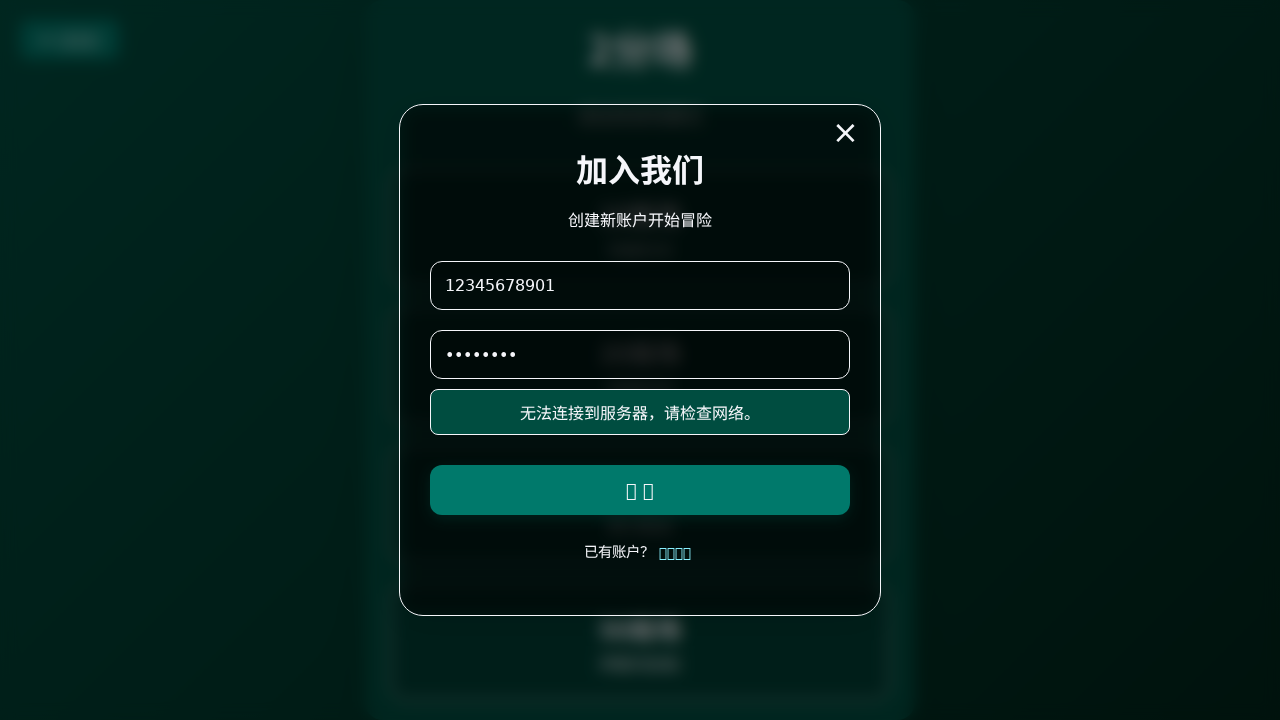
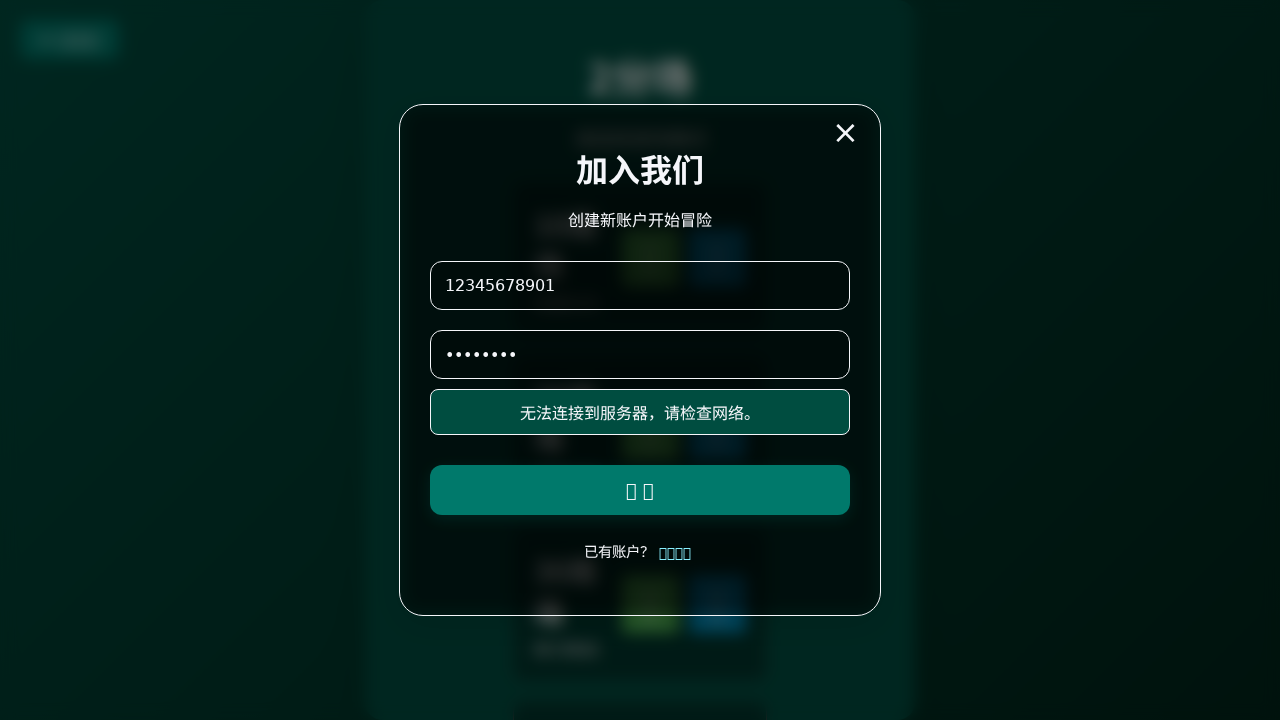
feat: Implement new game flow with join/create options
This commit implements a new game flow with separate "Join" and "Create" options for game modes.

- **UI**:
  - Updated the game mode selection screen to display "Join" and "Create" buttons for each mode.
- **Frontend Logic**:
  - Updated the `handleSelectMode` function to pass the selected action ('join' or 'create') to the backend.
- **Backend Logic**:
  - Updated the `match.php` script to handle the 'join' and 'create' actions.
  - The 'join' action looks for an existing waiting room.
  - The 'create' action always creates a new room.

diff --git a/frontend/src/App.jsx b/frontend/src/App.jsx
@@ -75,7 +75,7 @@ function App() {
     setCurrentView('modeSelection');
   };
 
-  const handleSelectMode = async (gameMode, gameType = viewingGame) => {
+  const handleSelectMode = async (gameMode, matchAction, gameType = viewingGame) => {
     if (!user) {
       setShowAuthModal(true);
       return;
@@ -83,25 +83,17 @@ function App() {
 
     if (!gameType || matchingStatus[gameType]) return;
 
-    let playerCount = 4; // Default player count
-    let finalGameMode = gameMode;
+    const gameModeParts = gameMode.split('-');
+    const playerCount = parseInt(gameModeParts[0], 10);
 
-    // If the gameMode string contains player count info (e.g., "4-normal"), parse it.
-    if (gameMode.includes('-')) {
-      const parts = gameMode.split('-');
-      playerCount = parseInt(parts[0], 10);
-      finalGameMode = parts[1];
-    }
-
-    const currentUser = user; // Capture user state at time of call
+    const currentUser = user;
     const userId = currentUser.id;
 
     setMatchingStatus(prev => ({ ...prev, [gameType]: true }));
-    // Reset game state but keep mode info
     setGameState({ gameType, gameMode, roomId: null, error: null, gameUser: currentUser, playerCount });
 
     try {
-      const response = await fetch(`/api/index.php?action=match&gameType=${gameType}&gameMode=${finalGameMode}&userId=${userId}&playerCount=${playerCount}`);
+      const response = await fetch(`/api/index.php?action=match&gameType=${gameType}&gameMode=${gameMode}&userId=${userId}&playerCount=${playerCount}&matchAction=${matchAction}`);
       const data = await response.json();
       if (data.success && data.roomId) {
         const newGameState = {
@@ -133,7 +125,7 @@ function App() {
   // This effect is for polling for a match for logged-in users.
   useEffect(() => {
     const currentGame = gameState.gameType;
-    if (!currentGame || !matchingStatus[currentGame] || !user || (user && user.id === 0)) return; // Only for logged in users
+    if (!currentGame || !matchingStatus[currentGame] || !user || (user && user.id === 0)) return;
     const intervalId = setInterval(async () => {
       if (gameState.roomId) {
         setMatchingStatus(prev => ({ ...prev, [currentGame]: false }));
@@ -144,8 +136,8 @@ function App() {
         clearInterval(intervalId);
         return;
       }
-      // Pass both gameMode and gameType for polling
-      await handleSelectMode(gameState.gameMode, gameState.gameType);
+      // Default to 'join' action when polling
+      await handleSelectMode(gameState.gameMode, 'join', gameState.gameType);
     }, 1000);
     return () => clearInterval(intervalId);
   }, [matchingStatus, user, gameState.roomId, gameState.gameType, gameState.gameMode]);

diff --git a/frontend/src/components/GameModeSelection.css b/frontend/src/components/GameModeSelection.css
@@ -1,15 +1,7 @@
 .mode-selection-container {
-  width: 100%;
-  min-height: 100%;
-  display: flex;
-  flex-direction: column;
-  align-items: center;
-  justify-content: center;
-  padding: 40px 20px;
-  box-sizing: border-box;
-  color: var(--text-color);
-  background: transparent;
+  padding: 20px;
   text-align: center;
+  color: #fff;
 }
 
 .back-button {
@@ -17,64 +9,76 @@
   top: 20px;
   left: 20px;
   background: none;
-  border: none;
-  color: var(--text-color);
-  font-size: 1rem;
-  font-weight: 600;
+  border: 1px solid #fff;
+  color: #fff;
+  padding: 10px 15px;
   cursor: pointer;
-  padding: 10px;
-}
-
-.back-button:hover {
-  text-decoration: underline;
+  border-radius: 5px;
 }
 
 .mode-selection-title {
   font-size: 2.5rem;
-  font-weight: 700;
-  color: var(--text-color);
-  margin: 0 0 10px 0;
+  margin-bottom: 10px;
 }
 
 .mode-selection-subtitle {
-  font-size: 1.1rem;
-  font-weight: 400;
-  color: var(--text-color);
-  margin-bottom: 40px;
+  font-size: 1.2rem;
+  margin-bottom: 30px;
 }
 
 .mode-options {
-  width: 100%;
-  max-width: 500px;
   display: flex;
   flex-direction: column;
   gap: 20px;
+  align-items: center;
 }
 
 .mode-card {
-  background: rgba(0, 0, 0, 0.2);
-  border-radius: 16px;
-  padding: 25px;
-  box-shadow: 0 8px 30px rgba(0, 0, 0, 0.08);
-  cursor: pointer;
-  transition: transform 0.2s ease, box-shadow 0.2s ease;
-  border: 1px solid var(--text-color);
+  display: flex;
+  justify-content: space-between;
+  align-items: center;
+  background-color: rgba(0, 0, 0, 0.3);
+  padding: 20px;
+  border-radius: 10px;
+  width: 80%;
+  max-width: 600px;
+  border: 1px solid #444;
 }
 
-.mode-card:hover {
-  transform: translateY(-5px);
-  box-shadow: 0 12px 40px rgba(0, 77, 64, 0.15);
+.mode-card-left {
+  text-align: left;
 }
 
 .mode-card-title {
-  font-size: 1.6rem;
-  font-weight: 600;
-  color: var(--text-color);
-  margin: 0 0 5px 0;
+  font-size: 1.8rem;
+  margin: 0;
 }
 
 .mode-card-description {
   font-size: 1rem;
-  color: var(--text-color);
-  margin: 0;
+  color: #ccc;
+  margin: 5px 0 0 0;
+}
+
+.mode-card-right {
+  display: flex;
+  gap: 10px;
+}
+
+.join-button, .create-button {
+  padding: 10px 20px;
+  font-size: 1rem;
+  border-radius: 5px;
+  cursor: pointer;
+  border: none;
+}
+
+.join-button {
+  background-color: #4CAF50; /* Green */
+  color: white;
+}
+
+.create-button {
+  background-color: #008CBA; /* Blue */
+  color: white;
 }

diff --git a/frontend/src/components/GameModeSelection.jsx b/frontend/src/components/GameModeSelection.jsx
@@ -29,10 +29,15 @@ const GameModeSelection = ({ gameType, onSelectMode, onBack }) => {
           <div
             key={mode.key}
             className={`mode-card ${mode.className || ''}`}
-            onClick={() => onSelectMode(mode.key)}
           >
-            <h2 className="mode-card-title">{mode.title}</h2>
-            <p className="mode-card-description">{mode.desc}</p>
+            <div className="mode-card-left">
+              <h2 className="mode-card-title">{mode.title}</h2>
+              <p className="mode-card-description">{mode.desc}</p>
+            </div>
+            <div className="mode-card-right">
+              <button className="join-button" onClick={() => onSelectMode(mode.key, 'join')}>加入</button>
+              <button className="create-button" onClick={() => onSelectMode(mode.key, 'create')}>创建</button>
+            </div>
           </div>
         ))}
       </div>

diff --git a/backend/api/actions/match.php b/backend/api/actions/match.php
@@ -7,7 +7,8 @@ require_once __DIR__ . '/../../utils/utils.php';
 $gameType = $_GET['gameType'] ?? null;
 $gameMode = $_GET['gameMode'] ?? null;
 $userId = $_GET['userId'] ?? null;
-$playerCount = (int)($_GET['playerCount'] ?? 4);
+$playerCount = (int)($_GET['playerCount'] ?? 8);
+$matchAction = $_GET['matchAction'] ?? 'join'; // 'join' or 'create'
 
 if (!$gameType || !$gameMode || !$userId) {
     http_response_code(400);
@@ -22,7 +23,7 @@ $conn->begin_transaction();
 
 try {
     // 1. Check if the user is already in an active room for this game type
-    $stmt = $conn->prepare("SELECT r.id FROM game_rooms r JOIN room_players rp ON r.id = rp.room_id WHERE rp.user_id = ? AND r.game_type = ? AND r.status IN ('waiting', 'arranging', 'playing')");
+    $stmt = $conn->prepare("SELECT r.id FROM game_rooms r JOIN room_players rp ON r.id = rp.room_id WHERE rp.user_id = ? AND r.game_type = ? AND r.status IN ('waiting', 'arranging', 'playing', 'submitted')");
     $stmt->bind_param("is", $userId, $gameType);
     $stmt->execute();
     $result = $stmt->get_result();
@@ -34,25 +35,10 @@ try {
     }
     $stmt->close();
 
-    // 2. Find an available room
-    $stmt = $conn->prepare("SELECT r.id, COUNT(rp.user_id) as player_count FROM game_rooms r LEFT JOIN room_players rp ON r.id = rp.room_id WHERE r.game_type = ? AND r.game_mode = ? AND r.status = 'waiting' AND r.player_count = ? GROUP BY r.id HAVING player_count < ? ORDER BY r.created_at ASC LIMIT 1");
-    $stmt->bind_param("ssii", $gameType, $gameMode, $playerCount, $playerCount);
-    $stmt->execute();
-    $result = $stmt->get_result();
-    $room = $result->fetch_assoc();
-    $stmt->close();
-
     $roomId = null;
 
-    if ($room) {
-        // 3. Join existing room, ensuring is_ready is set to 0
-        $roomId = $room['id'];
-        $stmt = $conn->prepare("INSERT INTO room_players (room_id, user_id, is_ready) VALUES (?, ?, 0) ON DUPLICATE KEY UPDATE room_id=room_id");
-        $stmt->bind_param("ii", $roomId, $userId);
-        $stmt->execute();
-        $stmt->close();
-    } else {
-        // 4. Create new room
+    if ($matchAction === 'create') {
+        // Always create a new room
         $gameModeParts = explode('-', $gameMode);
         $totalRounds = count($gameModeParts) > 1 ? (int)$gameModeParts[1] : 1;
 
@@ -66,9 +52,28 @@ try {
         $stmt->bind_param("ii", $roomId, $userId);
         $stmt->execute();
         $stmt->close();
-    }
+    } else { // 'join' or default 'match' action
+        // Find an available room
+        $stmt = $conn->prepare("SELECT r.id, COUNT(rp.user_id) as player_count FROM game_rooms r LEFT JOIN room_players rp ON r.id = rp.room_id WHERE r.game_type = ? AND r.game_mode = ? AND r.status = 'waiting' AND r.player_count = ? GROUP BY r.id HAVING player_count < ? ORDER BY r.created_at ASC LIMIT 1");
+        $stmt->bind_param("ssii", $gameType, $gameMode, $playerCount, $playerCount);
+        $stmt->execute();
+        $result = $stmt->get_result();
+        $room = $result->fetch_assoc();
+        $stmt->close();
 
-    // Dealing logic is now handled by player_action.php when all players are ready.
+        if ($room) {
+            $roomId = $room['id'];
+            $stmt = $conn->prepare("INSERT INTO room_players (room_id, user_id, is_ready) VALUES (?, ?, 0) ON DUPLICATE KEY UPDATE room_id=room_id");
+            $stmt->bind_param("ii", $roomId, $userId);
+            $stmt->execute();
+            $stmt->close();
+        } else {
+            // No waiting rooms found, return error for 'join' action
+            echo json_encode(['success' => false, 'message' => '没有找到可加入的房间，您可以自己创建一个。']);
+            $conn->commit();
+            exit;
+        }
+    }
 
     $conn->commit();
     echo json_encode(['success' => true, 'roomId' => $roomId]);

diff --git a/verify_dealing.py b/verify_dealing.py
@@ -23,8 +23,8 @@ def run_verification(playwright):
         game_mode_button = page.get_by_text("10局场")
         expect(game_mode_button).to_be_visible(timeout=10000)
 
-        print("Clicking on 10局场 mode...")
-        game_mode_button.click()
+        print("Clicking on Create button for 10局场 mode...")
+        page.locator(".mode-card:has-text('10局场') .create-button").click()
 
         # Handle login/registration if modal appears
         if page.locator(".auth-modal-backdrop").is_visible():
@@ -50,8 +50,8 @@ def run_verification(playwright):
                 print("Registration and login successful.")
 
                 # After login, re-click the game mode
-                print("Re-clicking on 10局场 mode...")
-                page.get_by_text("10局场").click()
+                print("Re-clicking on Create button for 10局场 mode...")
+                page.locator(".mode-card:has-text('10局场') .create-button").click()
 
         ready_button = page.get_by_role("button", name="点击准备")
         print("Waiting for ready button...")
